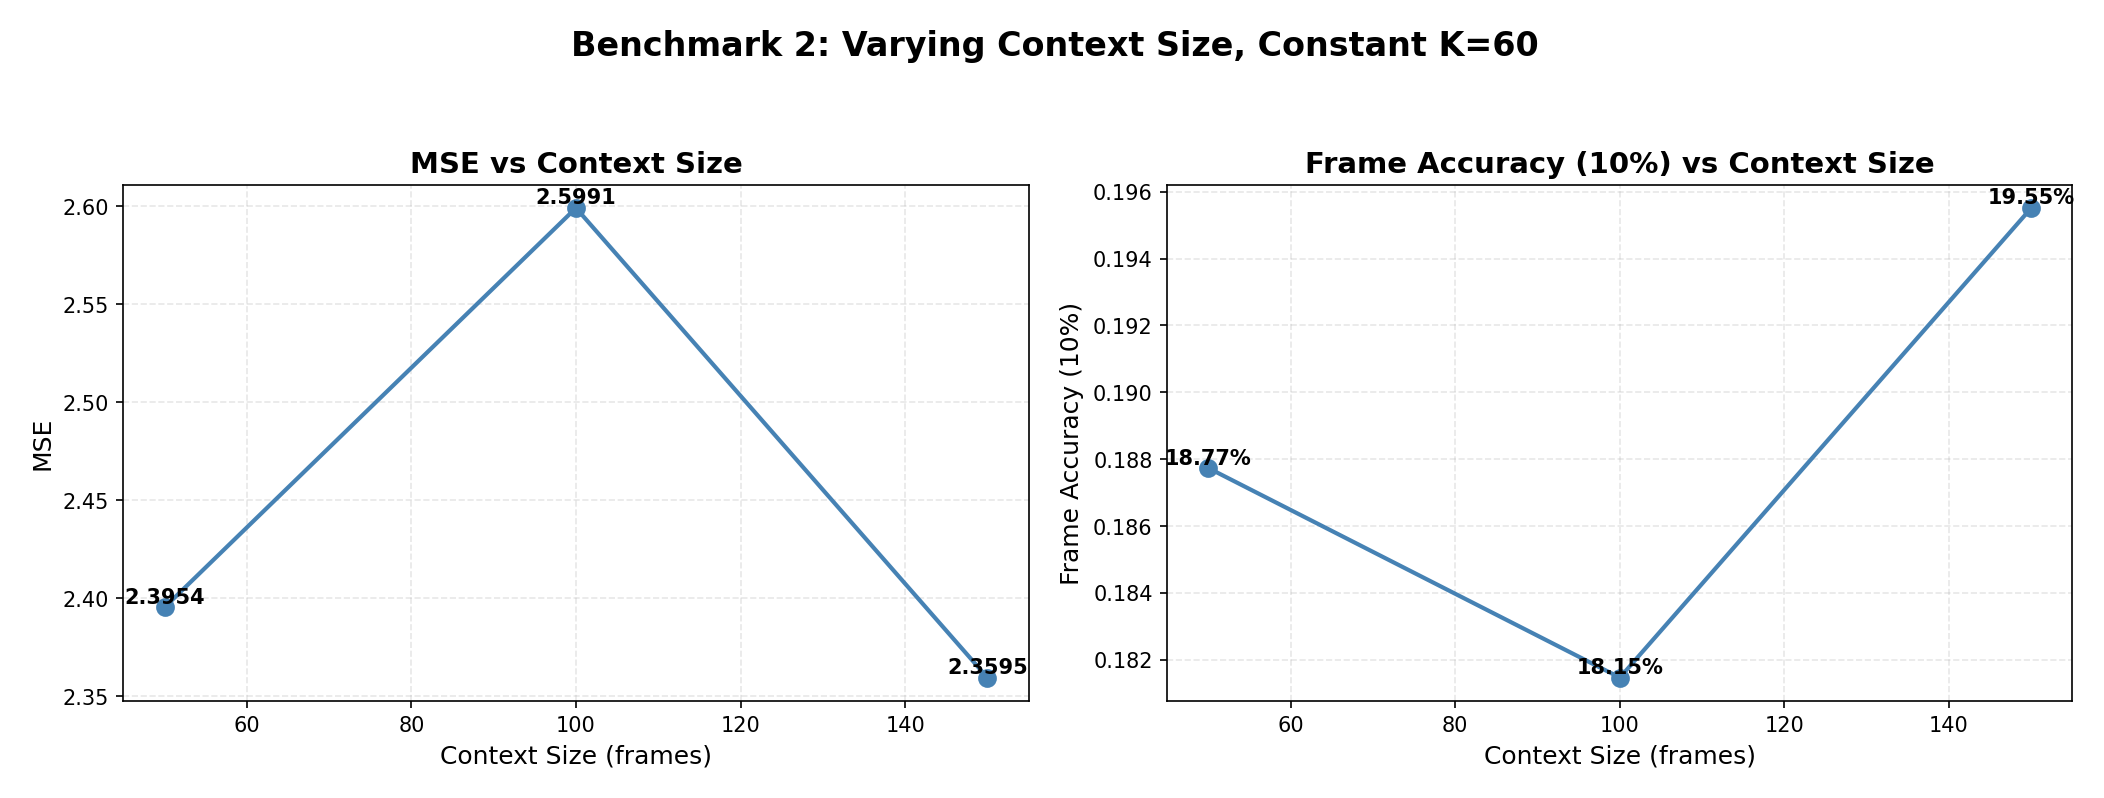
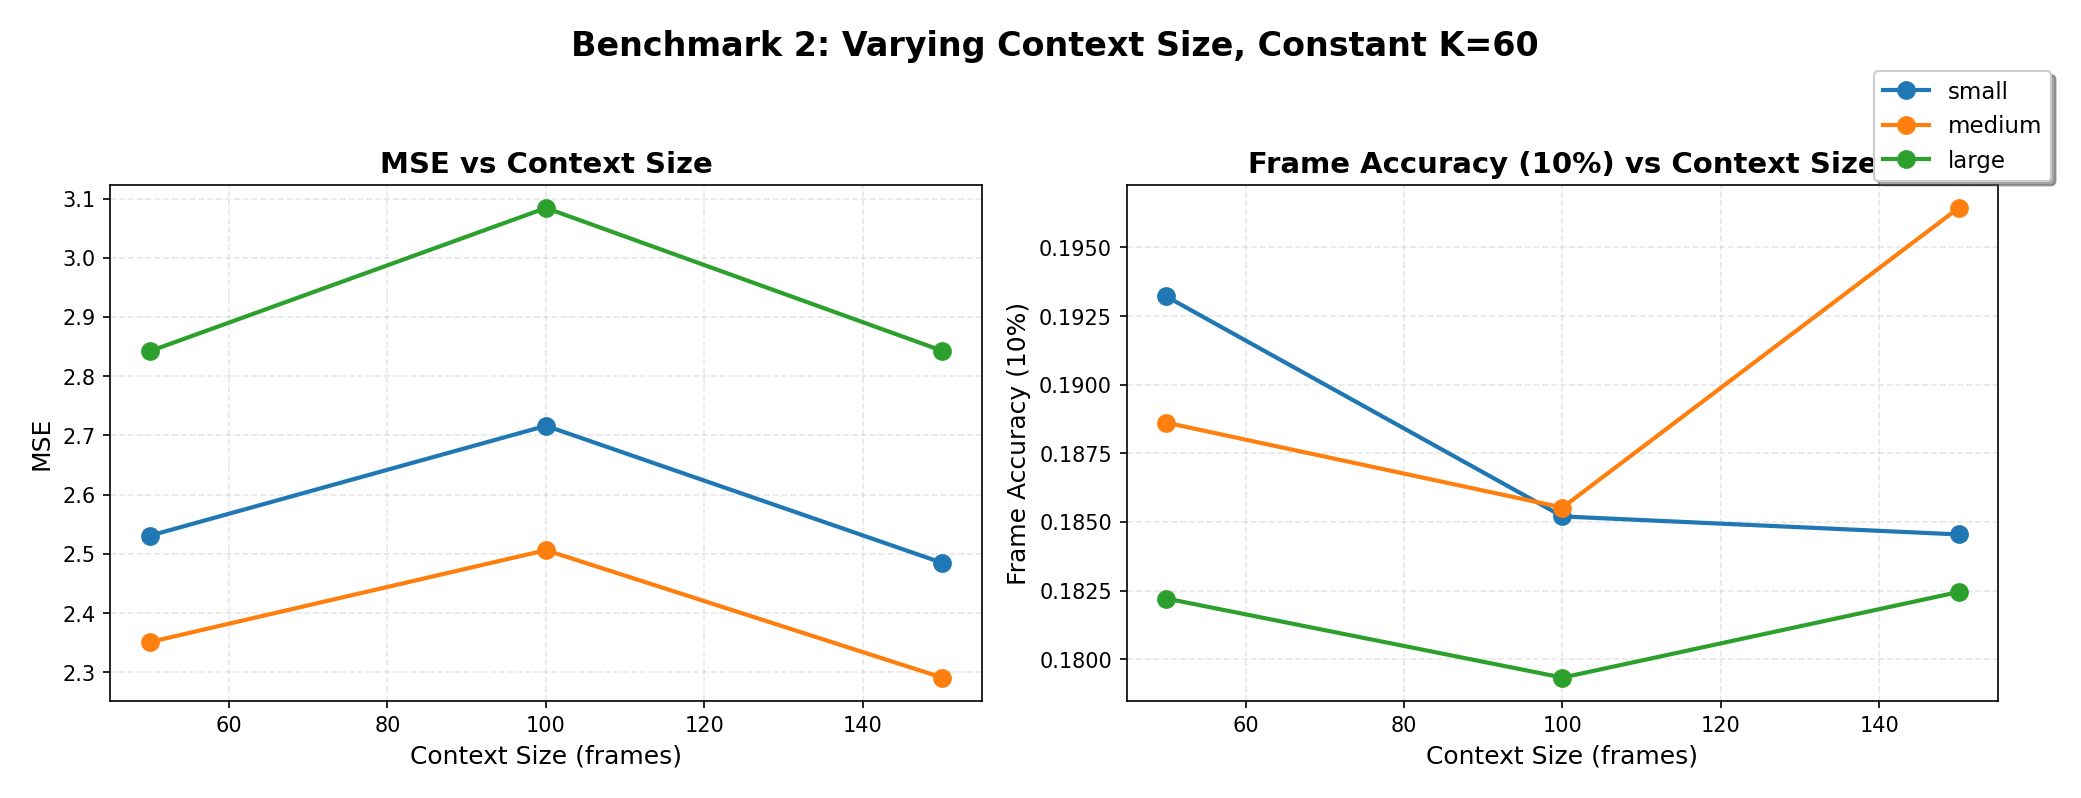
new graph and results

diff --git a/blog/index.html b/blog/index.html
@@ -382,31 +382,31 @@
         </div>
         <div class="figure-container">
             <img src="images/LSTMs/spec50.png" alt="Transformer MSE vs Context Size">
-            <div class="caption">Figure 6: Mel Spectrogram of Context provided, Ground Truth, and Predicted output for K=50</div>
+            <div class="caption">Figure 6: Large Model Mel Spectrogram of Context provided, Ground Truth, and Predicted output for K=50</div>
         </div>
         <p>
             The prediction is extremely blurry. The model fails to capture the onset of new notes, resulting in a "smearing" effect where distinct harmonic lines merge into a single, undefined wash of energy. The high frequencies (>80 bins) are almost entirely absent.
         </p>
         <div class="figure-container">
             <img src="images/LSTMs/spec100.png" alt="Transformer MSE vs Context Size">
-            <div class="caption">Figure 7: Mel Spectrogram of Context provided, Ground Truth, and Predicted output for K=100</div>
+            <div class="caption">Figure 7: Large Model Mel Spectrogram of Context provided, Ground Truth, and Predicted output for K=100</div>
         </div>
         <p>
             We begin to see the emergence of distinct harmonic bands, but they remain faint and disconnected. The model struggles to maintain the energy of the fundamental frequency.
         </p>
         <div class="figure-container">
             <img src="images/LSTMs/spec150.png" alt="Transformer MSE vs Context Size">
-            <div class="caption">Figure 8: Mel Spectrogram of Context provided, Ground Truth, and Predicted output for K=150</div>
+            <div class="caption">Figure 8: Large Model Mel Spectrogram of Context provided, Ground Truth, and Predicted output for K=150</div>
         </div>
         <p>
-            The horizontal harmonic lines are more continuous, and there is a noticeable improvement in the definition of the lower frequencies (0-40 bins). However, even with highest context provided, the LSTM still showcases an unexpected amount spectral smoothing compared to the Ground Truth, struggling to reproduce the sharp, vertical lines that characterize the a musical note. This further showcases the complexity of audio data from "basic" time-series data.
+            The horizontal harmonic lines are more continuous, and there is a noticeable improvement in the definition of the lower frequencies (0-40 bins). However, even with highest context provided, the LSTM still showcases an unexpected amount spectral smoothing compared to the Ground Truth, struggling to reproduce the sharp, vertical lines that characterize a musical note. This further showcases the complexity of audio data from "basic" time-series data.
         </p>
 
-        For LSTMs, "more context" is only beneficial if the model has the parameter capacity to store it. The Large model successfully leverages the 3.5-second history (150 frames) to reduce error, while smaller models appear overwhelmed by the sequence length.
+        For LSTMs, "more context" is only beneficial if the model has the parameter capacity to store it when considering relative error and frame accuracy. The Large model successfully leverages the 3.5-second history (150 frames) to reduce error, while smaller models appear overwhelmed by the sequence length although still improving relatively.
 
         <h4>Autoregressive Transformer</h4>
         <p>
-            The Transformer exhibited a sharper response to context compared to the LSTM. Increasing the context window to 150 frames significantly improved both MSE and Frame Accuracy (reaching ~20%). Similarly to the LSTM, we observe the same stagnation or decrease with the 100 frames of context, begging the question as to the non-linearity of the relationship.
+            The Transformer exhibited an interesting response to context compared to the LSTM. Increasing the context window to 150 frames caused overall loosely correlated fluctuates to both MSE and Frame Accuracy (reaching ~20% for the Medium model). In slight similarity to the LSTM, we observe the same stagnation or decrease of accuracy with the 100 frames of context, begging the question as to the non-linearity of the relationship. This may be due to the inherint structure of audio data and music composition, such that 100 frames of context creates complexity. Overall, the medium model performed the best, with the large model performing significantly worse than all the other models. 
         </p>
         <div class="figure-container">
             <img src="images/Transformers/benchmark2_varying_context.png" alt="Transformer MSE vs Context Size">
@@ -414,27 +414,27 @@
         </div>
         <div class="figure-container">
             <img src="images/Transformers/benchmark2_context50_spectrogram.png" alt="Transformer MSE vs Context Size">
-            <div class="caption">Figure 10: Mel Spectrogram of Context provided, Ground Truth, and Predicted output for K=50</div>
+            <div class="caption">Figure 10: Medium Model Mel Spectrogram of Context provided, Ground Truth, and Predicted output for K=50</div>
         </div>
         <p>
             The prediction suffers from "spectral smoothing." While the model captures the general energy pattern (the bottom yellow band), it still fails to produce distinct harmonic lines in the mid-frequencies. The output appears as a blurry "wash" of sound, indicating the model lacks sufficient history to infer the specific audio textures, which is expected with the lower context.
         </p>
         <div class="figure-container">
             <img src="images/Transformers/benchmark2_context100_spectrogram.png" alt="Transformer MSE vs Context Size">
-            <div class="caption">Figure 11: Mel Spectrogram of Context provided, Ground Truth, and Predicted output for K=100</div>
+            <div class="caption">Figure 11: Medium Model Mel Spectrogram of Context provided, Ground Truth, and Predicted output for K=100</div>
         </div>
         <p>
             Now, we are able to see the emergence of structure, but it still is not strongly represented. The horizontal harmonic bands begin to separate from the aforementioned “wash”, but the model does still struggle with the sharper features. Even though the spectrogram seems more defined, we know that the Context=100 resulted in a dip in performance,  this is likely due to the model attempting to predict more complex structures but missing slightly, resulting in higher pixel-wise penalties than the "safe" spectrogram of Context=50.
         </p>
         <div class="figure-container">
             <img src="images/Transformers/benchmark2_context150_spectrogram.png" alt="Transformer MSE vs Context Size">
-            <div class="caption">Figure 12: Mel Spectrogram of Context provided, Ground Truth, and Predicted output for K=150</div>
+            <div class="caption">Figure 12: Medium Model Mel Spectrogram of Context provided, Ground Truth, and Predicted output for K=150</div>
         </div>
         <p>
-            This configuration produces the highest fidelity output. However, some high-frequency detail is still smoothed out compared to the Ground Truth, the overall spectral texture is sharper and more coherent than the shorter-context models, but lacks the vertical lines of texture from the ground truth and context.
+            Hypothetically, this should have produced the highest fidelity output, but this is contrasted by a visually similar spectrogram to the Context=100 spectrogram. Furthermore, some high-frequency detail is still smoothed out compared to the Ground Truth, the overall spectral texture is sharper and more coherent than the shorter-context models, but lacks the vertical lines of texture from the ground truth and context.
         </p>
         <p>
-            Unlike the linear scaling of the Large LSTM, the Transformer appears to require a longer context window to fully activate its potential. With 150 frames, the self-attention mechanism can aggregate enough historical dependencies to resolve ambiguity, transforming previously low-correlation spectrograms into relatively high-correlation graphs. 
+            Unlike the linear scaling of the Large LSTM, the Transformer appears to require a longer context window to fully activate its potential in terms of our graphs and spectrogram analysis. With 150 frames, the self-attention mechanism seems aggregate enough historical dependencies to resolve issues with lower context, however, this improvement is not strongly represented visually nor is it a magnitude of improvement quantitiatively as showcased in Figures 9-12. 
         </p>
 
         <hr>
